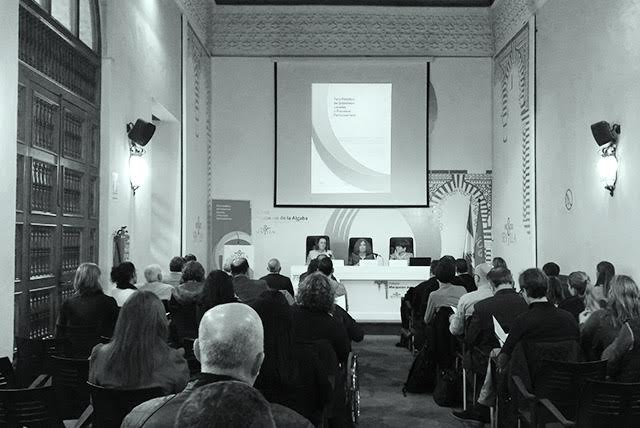
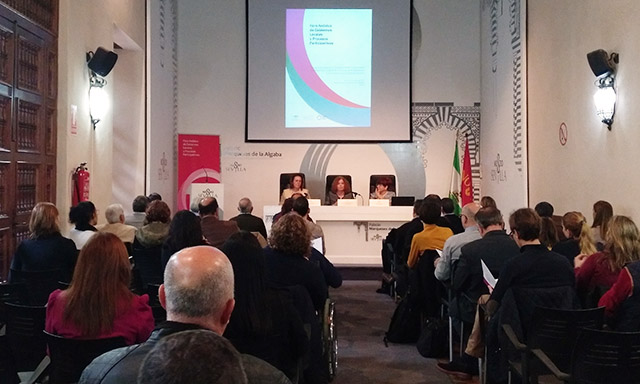
Update images, update menu, add encuentro section

diff --git a/index.html b/index.html
@@ -93,7 +93,7 @@
                   <li><a href="#sesiones">Sesión 3 | Procesos Participativos</a></li>
                   <li><a href="#sesiones">Sesión 4 | Conclusiones</a></li>
                   <li><a href="#sesiones">Sesión Virtual</a></li>
-                  <li><a href="#sesiones">I Encuentro</a></li>
+                  <li><a href="#encuentro">I Encuentro</a></li>
                   <li class="divider"></li>
                   <li><a href="#calendario">Calendario</a></li>
                 </ul>
@@ -230,7 +230,33 @@
       </div>
     </div>
 
+    <div class="section">
+      <div id="encuentro">
+        <div class="container" id="wrapper">
+          <div class="row">
+            <div class="col-sm-12">
+              <h2>I Encuentro andaluz 'Gobierno Abierto, Innovación y Participación Ciudadana'</h2>
+              <hr/>
+            </div>
+          </div>
+          <div class="row">
+            <img class="right" src="./images/encuentro.jpg" />
+            <p>La Federación Andaluza de Municipios y Provincias (FAMP) y la Consejería de Igualdad y Políticas Sociales de la Junta de Andalucía -a través de la Dirección General Participación Ciudadana y Voluntariado- y la colaboración del Ayuntamiento de Sevilla, celebraron el pasado 28 de Noviembre el I Encuentro andaluz 'Gobierno Abierto, Innovación y Participación Ciudadana'.</p>
 
+            <p>Este encuentro se desarrolló en el marco del proyecto 'Foro Andaluz de Gobiernos Locales y Procesos Participativos', en el que han participado responsables políticos, personal técnico, ciudadanía organizada, "actores clave" en los procesos participativos.</p>
+
+            <p>El encuentro contó con la participación de expertos como Manuel Zafra, doctor en Derecho por la Universidad de Granada y profesor titular de Políticas Públicas y Ciencia de la Administración de la facultad granadina de Ciencias Políticas; Joan Font Fábregas, investigador científico del CSIC y doctor en Ciencias Políticas y Sociología por la Universitat Autónoma de Barcelona y Máster en Ciencia Política por la Universidad de Michigan; y María Jesús Fernández Ruiz, directora Oficina de Participación, Transparencia y Gobierno Abierto del Ayuntamiento de Zaragoza.</p>
+
+            <p>El encuentro sirvió para la formación, la reflexión, el debate y para validar los productos emanados de la investigación de campo, los resultados de los procesos de reflexión en las tareas grupales en los que han estado involucrados los 16 Grupos Motores que han intervenido de los Ayuntamientos de Adra, Roquetas de Mar y Almería; Jerez de la Frontera y Cádiz; Córdoba y Palma del Río; Granada y Maracena; Ayamonte y Huelva; Martos y Linares en la provincia de Jaén; Nerja y Málaga; y finalmente, Sevilla. Lo que ha supuesto la participación directa de más de trescientas personas/actores locales clave.</p>
+
+            <p>Durante el encuentro se presentó igualmente la "hoja de ruta" que ayudará a implementar experiencias participativas en el ámbito local, con la Ley de Participación Ciudadana de Andalucía como norma.</p>
+
+            <p>La jornada concluyó con la lectura del Manifiesto al Pacto Andaluz por la participación ciudadana y la calidad democrática en la Administración Local de Andalucía y, dando paso al surgimiento de una Red de Gobiernos Locales comprometidos con la "participación", la Red Andaluza de Ciudades Participativas.</p>
+          </div>            
+        </div>
+      </div>
+    </div>
+    
     <div class="section" id="presentacion">
       <div class="container" id="wrapper">
 
@@ -838,7 +864,7 @@
     <hr/>
   </div>
   <div class="col-md-4">
-    <img src="./images/laboratorio.png" />
+    <img src="./images/laboratorio.jpg" />
   </div>
   <div class="col-md-6 col-md-offset-2">
     <p>El Laboratorio Participativo para el Gobierno Abierto y la Participación Ciudadana se convertirá en es un espacio de interactuación abierto que unirá a quienes integran los Grupos Motores de los 16 Ayuntamientos piloto y que les permitirá debatir, reflexionar, validar y tomar decisiones acerca de la adopción de medidas y políticas necesarias de participación ciudadana y gobierno abierto.</p>
